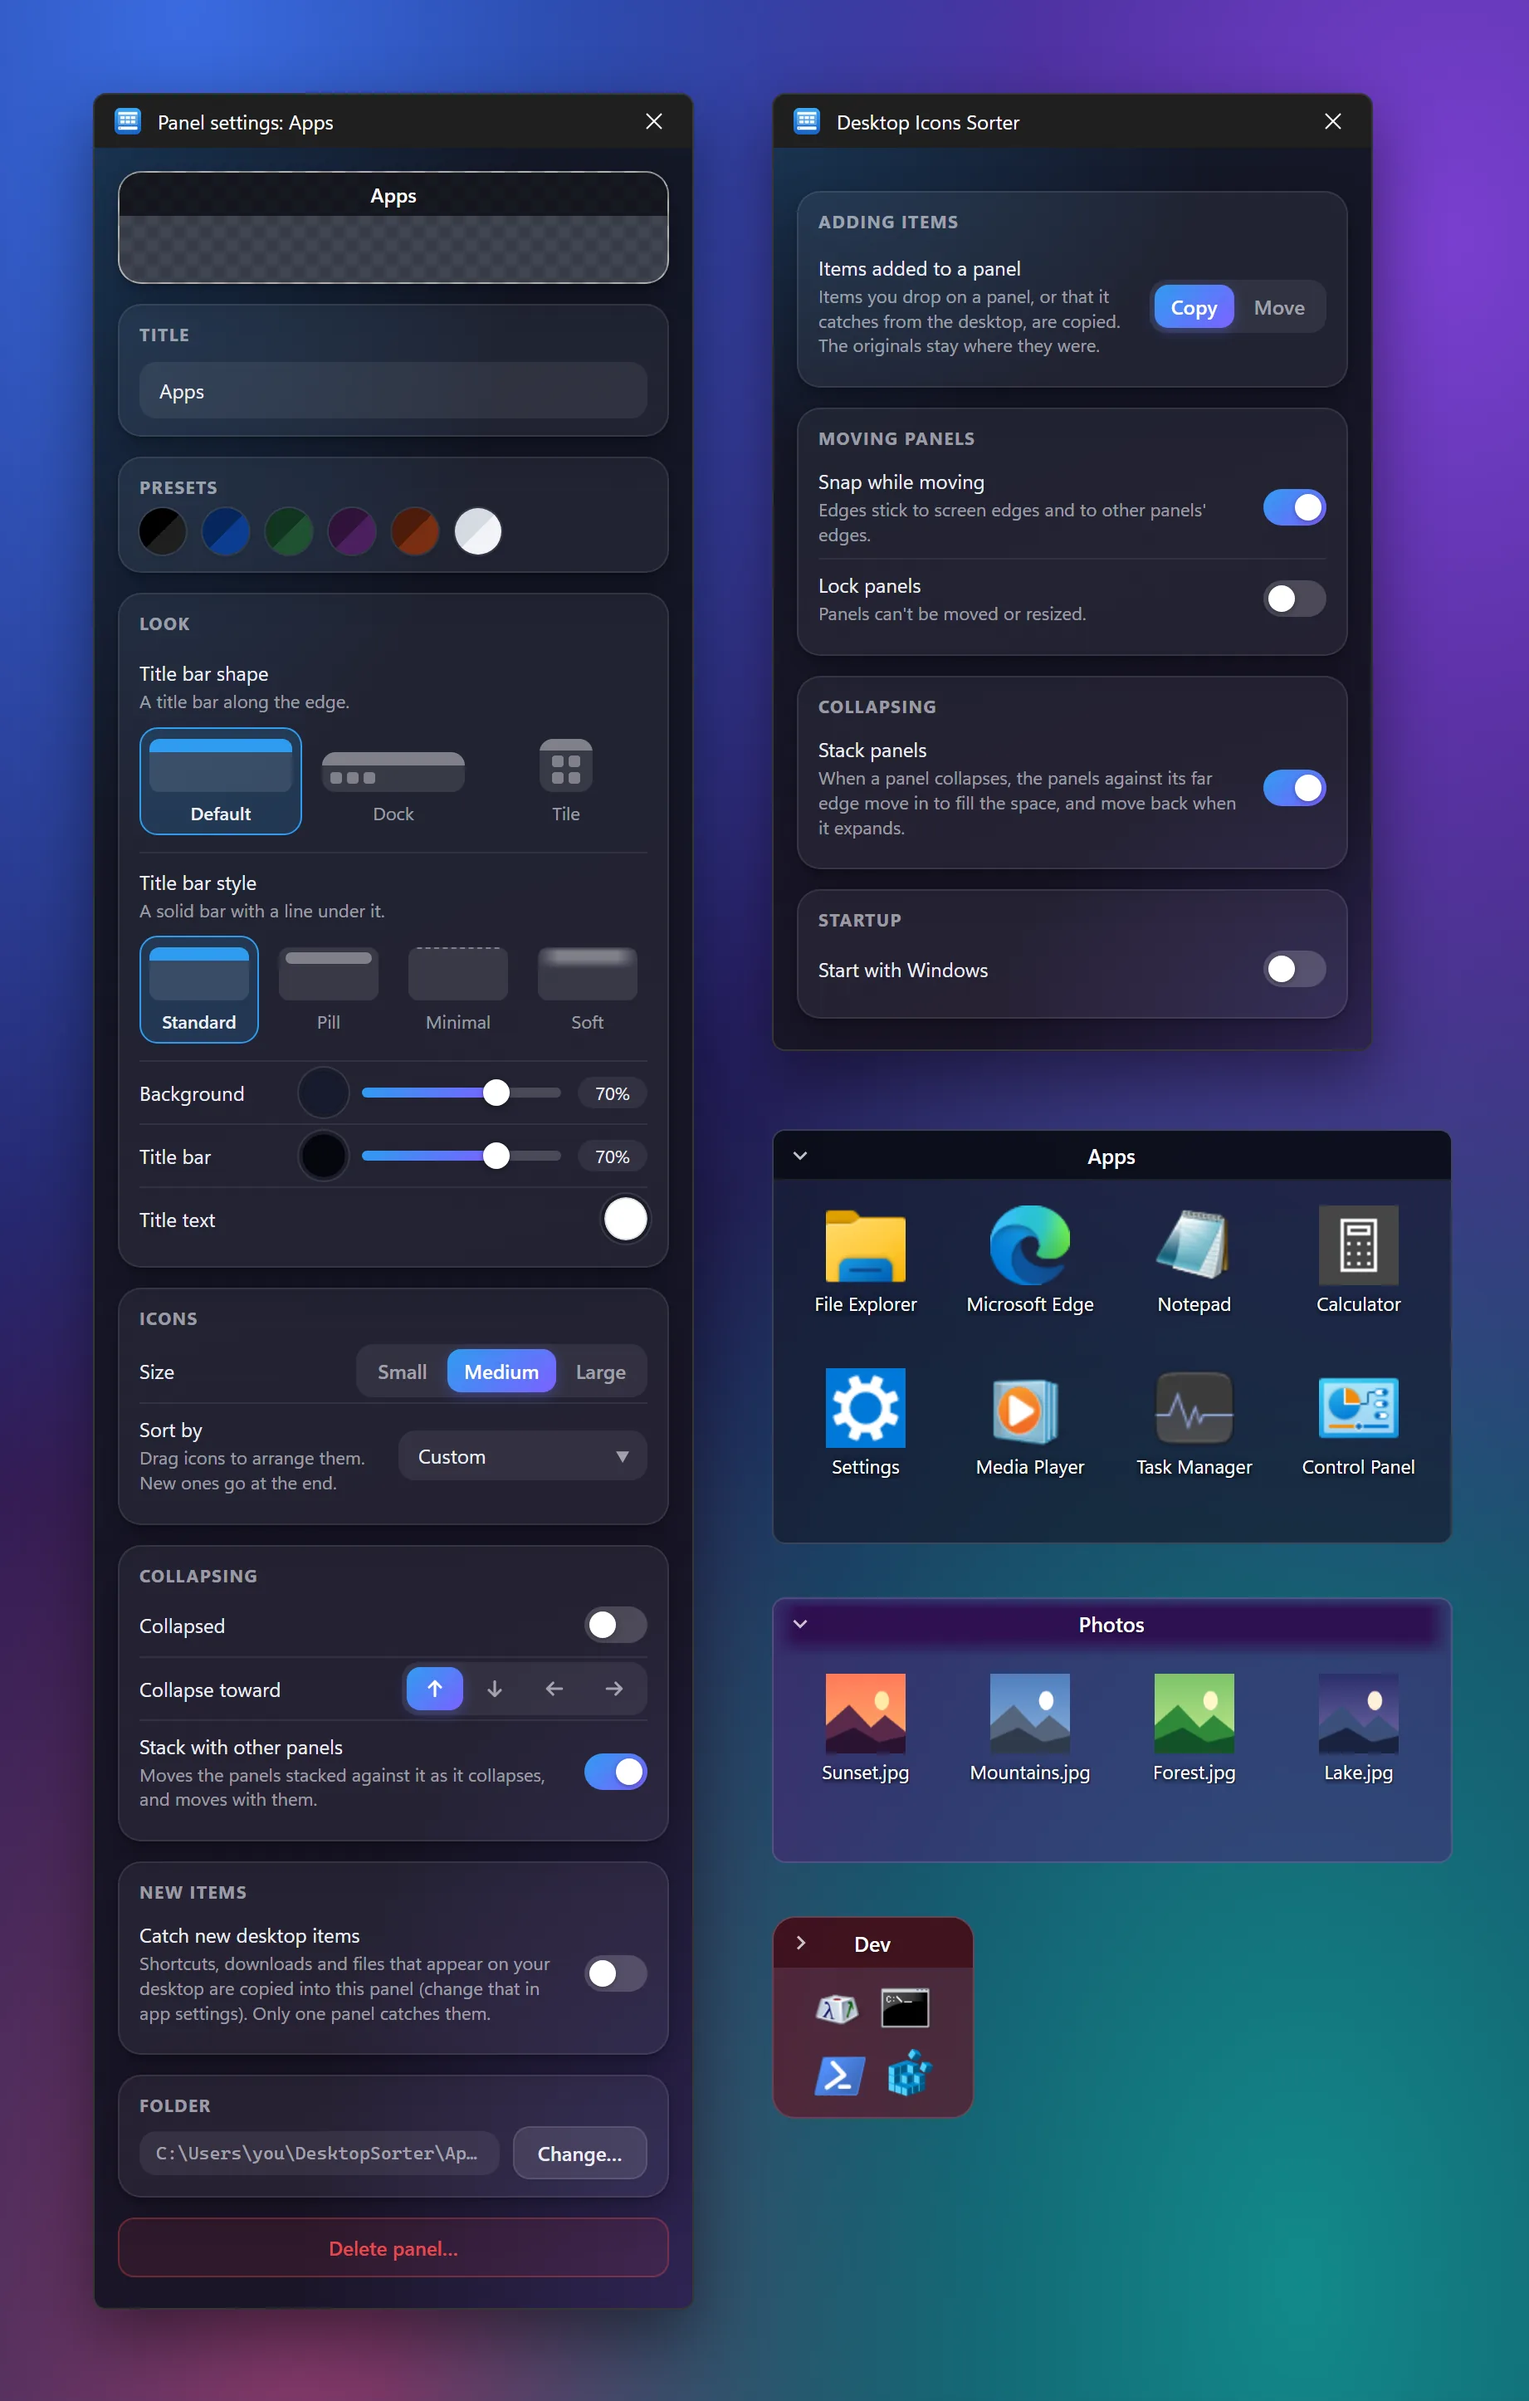
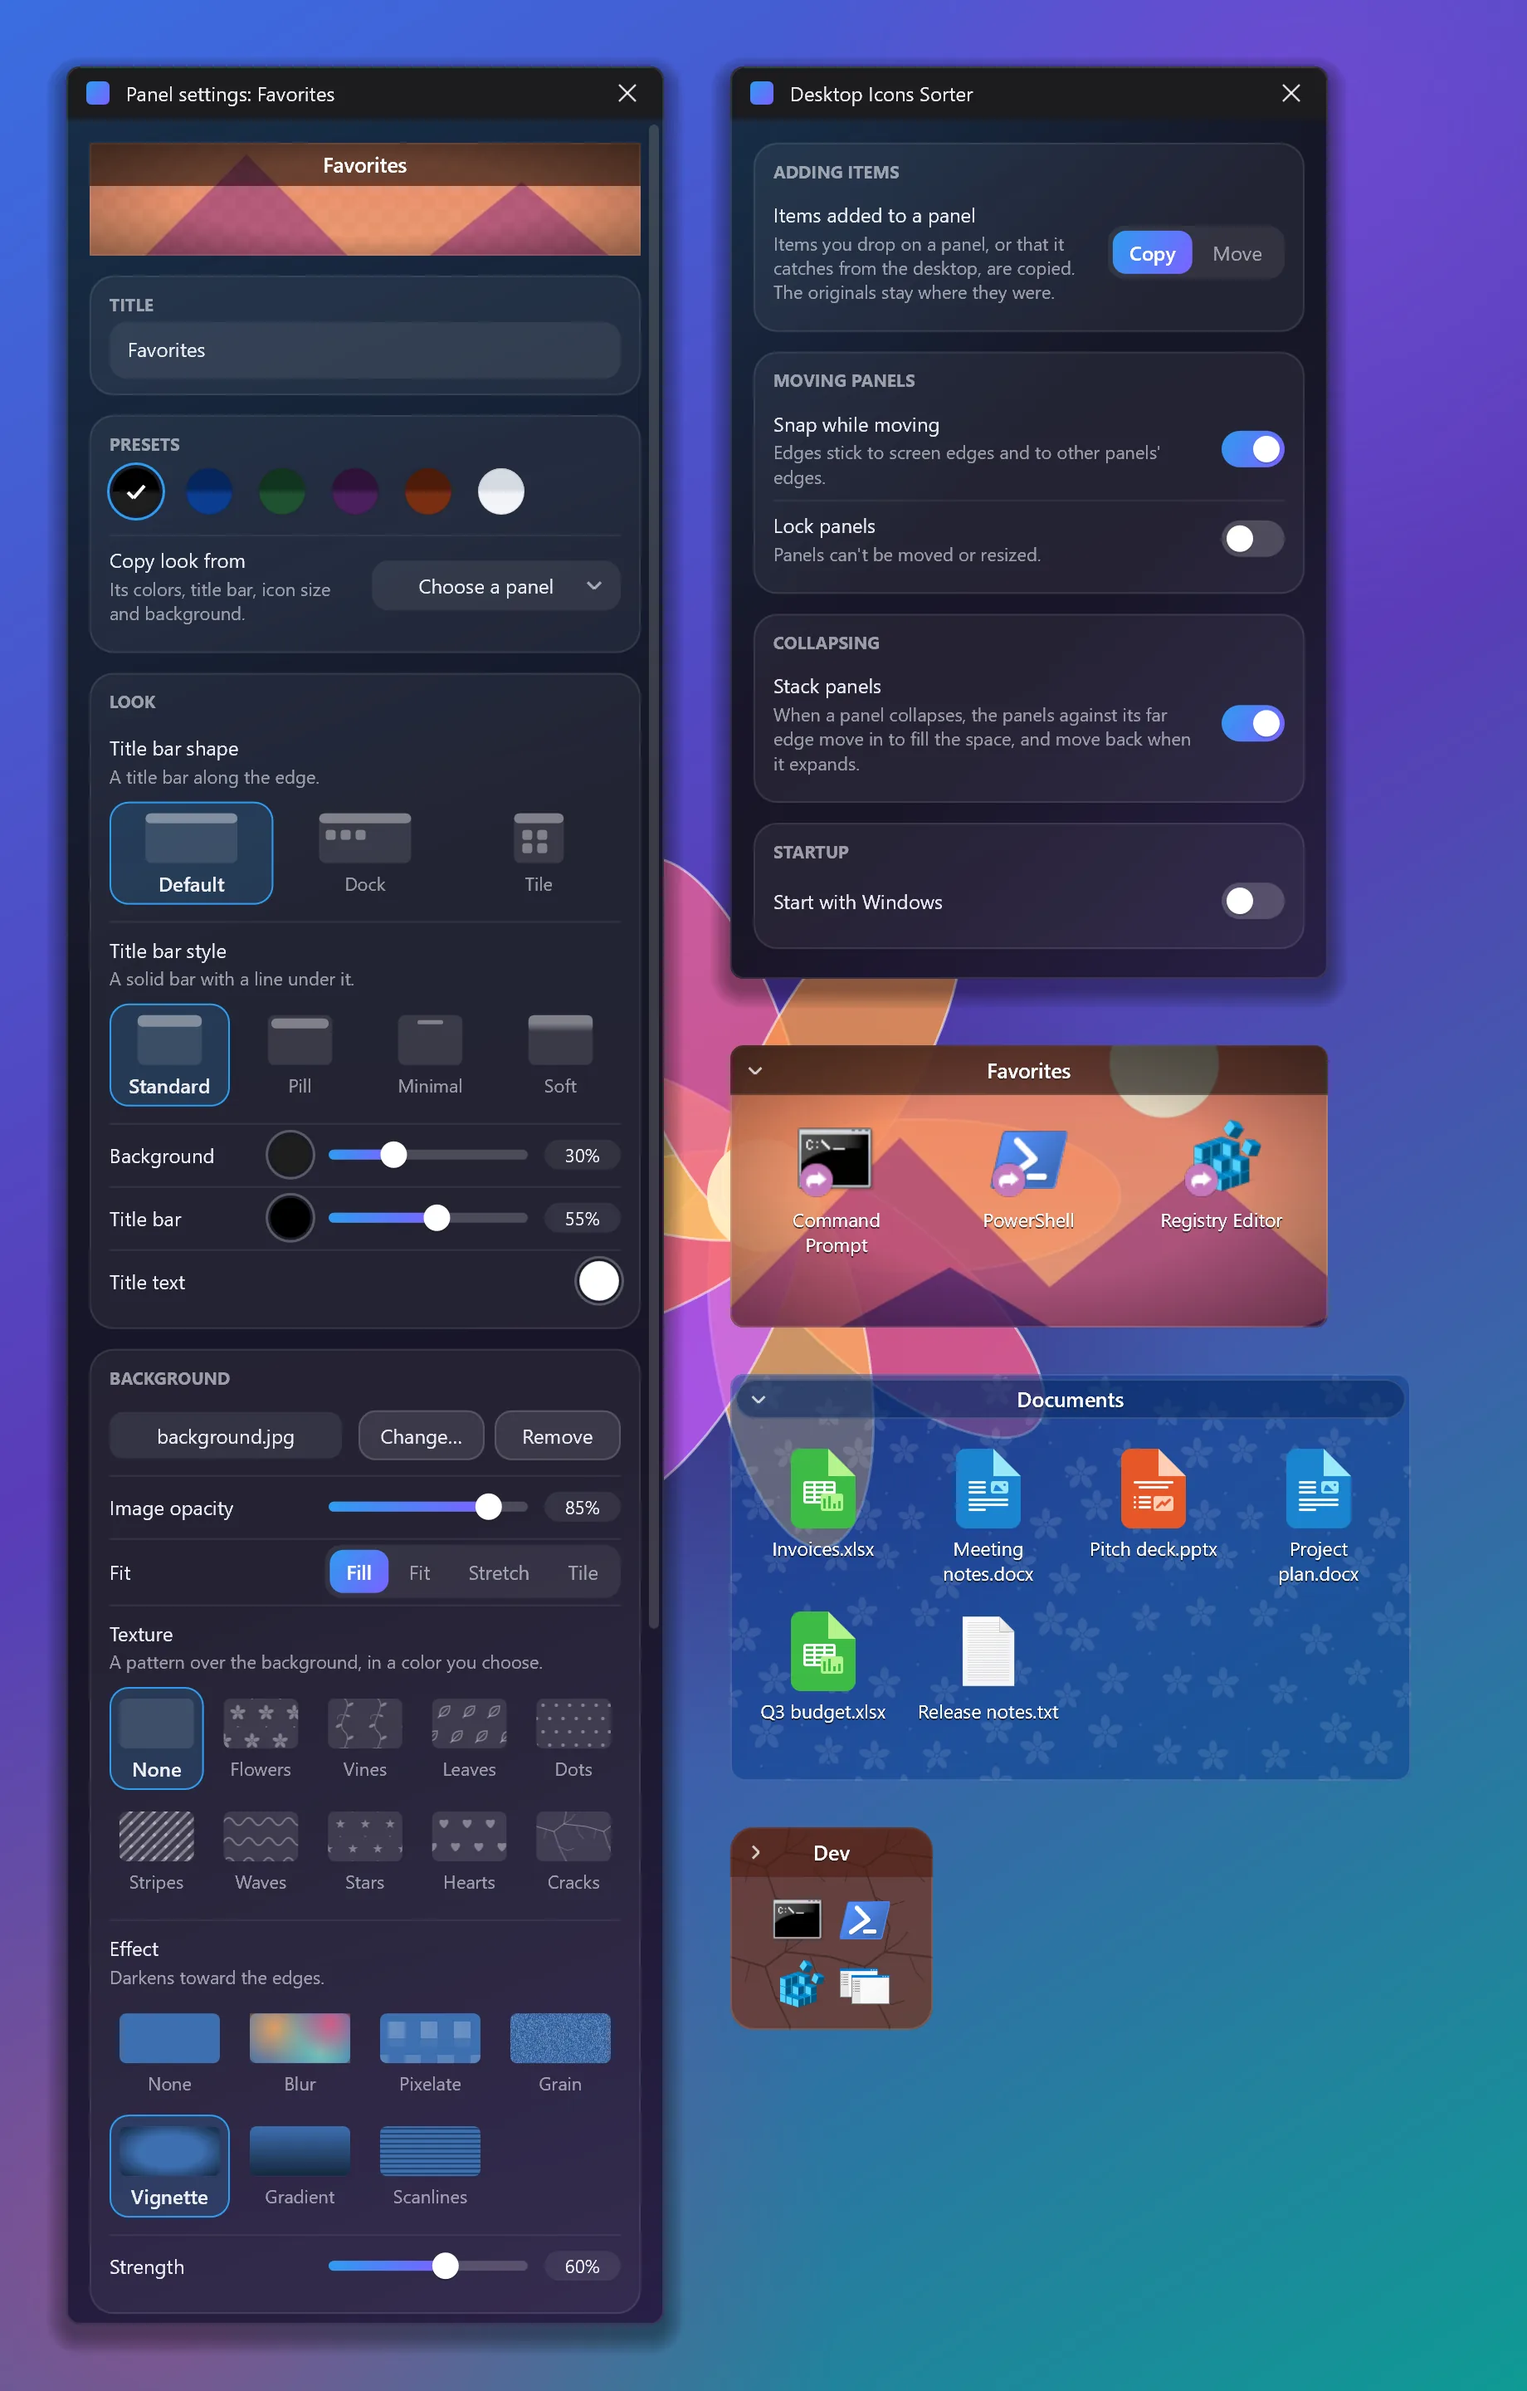
Update the README screenshots to show panel backgrounds
The desktop view now has panels with the new background styling: a
scattered flower texture (Documents), a frosted blur over the wallpaper
(Games), a picture with a vignette (Favorites) and a crack texture on a
tile (Dev), next to the title bar styles from before. The settings view
shows a panel's settings down to the Background section, with Copy look
from, next to the app settings and a few panels.

They were rendered off screen from the app's own drawing code with demo
panels over a generated wallpaper, at 2x, and saved as WebP (111 KB and
164 KB). The image descriptions match the new pictures. The README also
mentions deselecting, the blur limitation, the background modules in the
project layout, and 0.3.0/0.4.0 in the build and release examples.

diff --git a/README.md b/README.md
@@ -2,7 +2,7 @@
 
 Rectangular, customizable panels on the Windows desktop for sorting your icons. It works like Stardock Fences: drop shortcuts into a panel to group them, then collapse the panel when you want a clean desktop.
 
-![Panels on the Windows desktop: an Apps panel with a standard title bar, a Documents panel with a pill title bar, a Photos panel with a soft title bar, a Dev panel collapsed to a tile, and a Tools panel with a minimal title bar collapsed to a dock](docs/screenshots/desktop.webp)
+![Panels on the Windows desktop: an Apps panel with a standard title bar, a Documents panel with a pill title bar and a scattered flower texture, a frosted Games panel blurring the wallpaper behind it, a Photos panel with a soft title bar, a Favorites panel with a picture background and a vignette, a Dev panel with a crack texture collapsed to a tile, and a Tools panel with a minimal title bar collapsed to a dock](docs/screenshots/desktop.webp)
 
 It's a small native app (Rust, Win32 and Direct2D): one process of about 16 MB with four panels, and a single exe under 1 MB.
 
@@ -12,7 +12,7 @@ Free and open source under the [MIT License](LICENSE).
 
 - **Panels that live on the desktop.** They sit behind normal windows, stay out of the taskbar and Alt+Tab, and stay visible on "Show desktop" (Win+D).
 - **Folder-backed.** Each panel shows a real folder (`%USERPROFILE%\DesktopSorter\<panel>` by default). Dropping a desktop icon onto a panel copies it into that folder, or moves it there so it leaves the cluttered desktop: choose Copy (the default) or Move in app settings. Icons dragged from one panel to another always move. The grouping survives restarts and Windows rearranging your icons.
-- **Customizable per panel**, in a settings window with one-click controls (picture tiles for the title bar shape and style, arrow buttons for the collapse direction, toggle switches) that follows the Windows light or dark theme:
+- **Customizable per panel**, in a settings window with one-click controls (picture tiles for the title bar shape and style and for the background texture and effect, arrow buttons for the collapse direction, toggle switches) that follows the Windows light or dark theme:
   - title (double-click it to rename)
   - background color and transparency
   - background picture: any image file, with its own transparency, filling the panel, fitted inside it, stretched or tiled
@@ -33,7 +33,7 @@ Free and open source under the [MIT License](LICENSE).
 - **Starts with Windows** after a fresh install (turn it off in app settings or the tray menu). The portable exe doesn't, since it isn't installed anywhere.
 - **Item actions:**
   - double-click to open
-  - select several with Ctrl+click, Shift+click or Shift+arrow keys
+  - select several with Ctrl+click, Shift+click or Shift+arrow keys; a selected item shows its whole name, and clicking another panel or the desktop deselects
   - drag out (one item or the whole selection) to Explorer, the desktop or another panel
   - right-click for the Windows context menu (Open with, Send to, Cut, Copy, Delete, Rename, Properties and what other apps add; Shift+right-click for more), plus Show in panel folder and Move to Desktop or another panel
   - Explorer's keyboard shortcuts: Enter opens, F2 renames, Ctrl+C / Ctrl+X / Ctrl+V copy, cut and paste, Delete or Ctrl+D moves to the Recycle Bin (Shift+Delete too: the app never deletes outright), Alt+Enter shows Properties, Ctrl+Shift+C copies the path, Ctrl+Shift+N makes a new folder, Ctrl+A selects all, arrow keys, Home and End move, F5 refreshes, and the context menu key or Shift+F10 opens the menu
@@ -43,7 +43,7 @@ Free and open source under the [MIT License](LICENSE).
 - **Safe deletes.** Deleting a panel asks whether to move its items back to the Desktop. Files are never deleted.
 
 <p align="center">
-  <img src="docs/screenshots/settings.webp" width="640" alt="The panel settings window, with picture tiles for the title bar shape and style, and the app settings window, next to an Apps panel, a Photos panel and a Dev panel collapsed to a tile">
+  <img src="docs/screenshots/settings.webp" width="640" alt="The settings window of a Favorites panel, with Copy look from, picture tiles for the title bar shape and style, and a Background section with the picture, texture and effect tiles, next to the app settings window, the Favorites panel with its picture background, a Documents panel with a flower texture and a Dev panel collapsed to a tile">
 </p>
 
 ## Getting started
@@ -59,7 +59,7 @@ Build the installer and the portable exe into `dist/` (needs [NSIS](https://nsis
 
 ```bash
 cargo build --release
-makensis -DVERSION=0.2.0 -DOUTFILE=..\dist\desktop-icons-sorter-0.2.0-setup.exe installer\installer.nsi
+makensis -DVERSION=0.3.0 -DOUTFILE=..\dist\desktop-icons-sorter-0.3.0-setup.exe installer\installer.nsi
 ```
 
 The release exe (`target\release\desktop-icons-sorter.exe`) is a single file that runs from anywhere, so it's also the portable build. The installer puts it in `%LOCALAPPDATA%\Programs\Desktop Icons Sorter`, adds a Start menu shortcut and starts it with Windows. Installing over an Electron build of the app removes that build first and keeps your panels and settings.
@@ -72,11 +72,11 @@ The app and installer icon is `build/icon.ico`. It's generated by `build/make-ic
 2. Tag that commit and push the tag:
 
    ```bash
-   git tag v0.3.0
-   git push origin v0.3.0
+   git tag v0.4.0
+   git push origin v0.4.0
    ```
 
-The **Release** workflow then builds both executables on Windows and publishes them as a GitHub release. The release notes list every commit subject since the previous tag (version-bump commits are left out), so write commit subjects that make sense to users. Preview them with `node scripts/release-notes.mjs v0.3.0` after tagging locally. It fails if the tag doesn't match the `Cargo.toml` version. The executables aren't code-signed, so Windows SmartScreen will warn on first run.
+The **Release** workflow then builds both executables on Windows and publishes them as a GitHub release. The release notes list every commit subject since the previous tag (version bumps, and reverts of them, are left out), so write commit subjects that make sense to users. Preview them with `node scripts/release-notes.mjs v0.4.0` after tagging locally. It fails if the tag doesn't match the `Cargo.toml` version. The executables aren't code-signed, so Windows SmartScreen will warn on first run.
 
 ## Development
 
@@ -105,6 +105,8 @@ src/
     folder.rs              List, sort, move (collision-safe, cross-drive), copy, rename
     catcher.rs             Deciding which new desktop items to catch
     panel_layout.rs        Where everything in a panel goes, and hit testing
+    background.rs          Background pictures, textures and effects as geometry:
+                           fitting, texture shapes, scatter, blur, wallpaper placement
     icon_source.rs, overlay.rs   Shortcut and .url icon locations, the shortcut arrow
   main.rs                  Single instance, OLE, the message loop
   app.rs                   The app's state and everything it does
@@ -112,7 +114,8 @@ src/
   panel.rs                 Drawing a panel; moving and resizing it
   settings.rs              The panel settings and app settings windows
   win/                     Win32: desktop layer, Direct2D drawing, shell icons,
-                           folder watching, tray, menus, dialogs, rename box
+                           background pictures and the wallpaper (WIC), folder
+                           watching, tray, menus, dialogs, rename box
 installer/installer.nsi    The NSIS installer
 fixtures/                  A config.json written by the Electron app, for tests
 ```
@@ -124,6 +127,7 @@ Each panel window is made an _owned_ window of `Progman` (the desktop shell wind
 ## Notes and limitations
 
 - Items on the shared _Public Desktop_ (`C:\Users\Public\Desktop`) need administrator rights to move. The app tells you when a move fails.
+- Blur and pixelate show the desktop wallpaper behind a panel, not desktop icons or windows that happen to be behind it.
 - Renaming a panel does not rename its folder. Use **Panel settings → Folder → Change…** to point a panel at a different folder.
 - Panels and the settings windows aren't yet usable with a screen reader or the keyboard alone (beyond Enter, F2, Escape and Ctrl+A in a panel).
 
